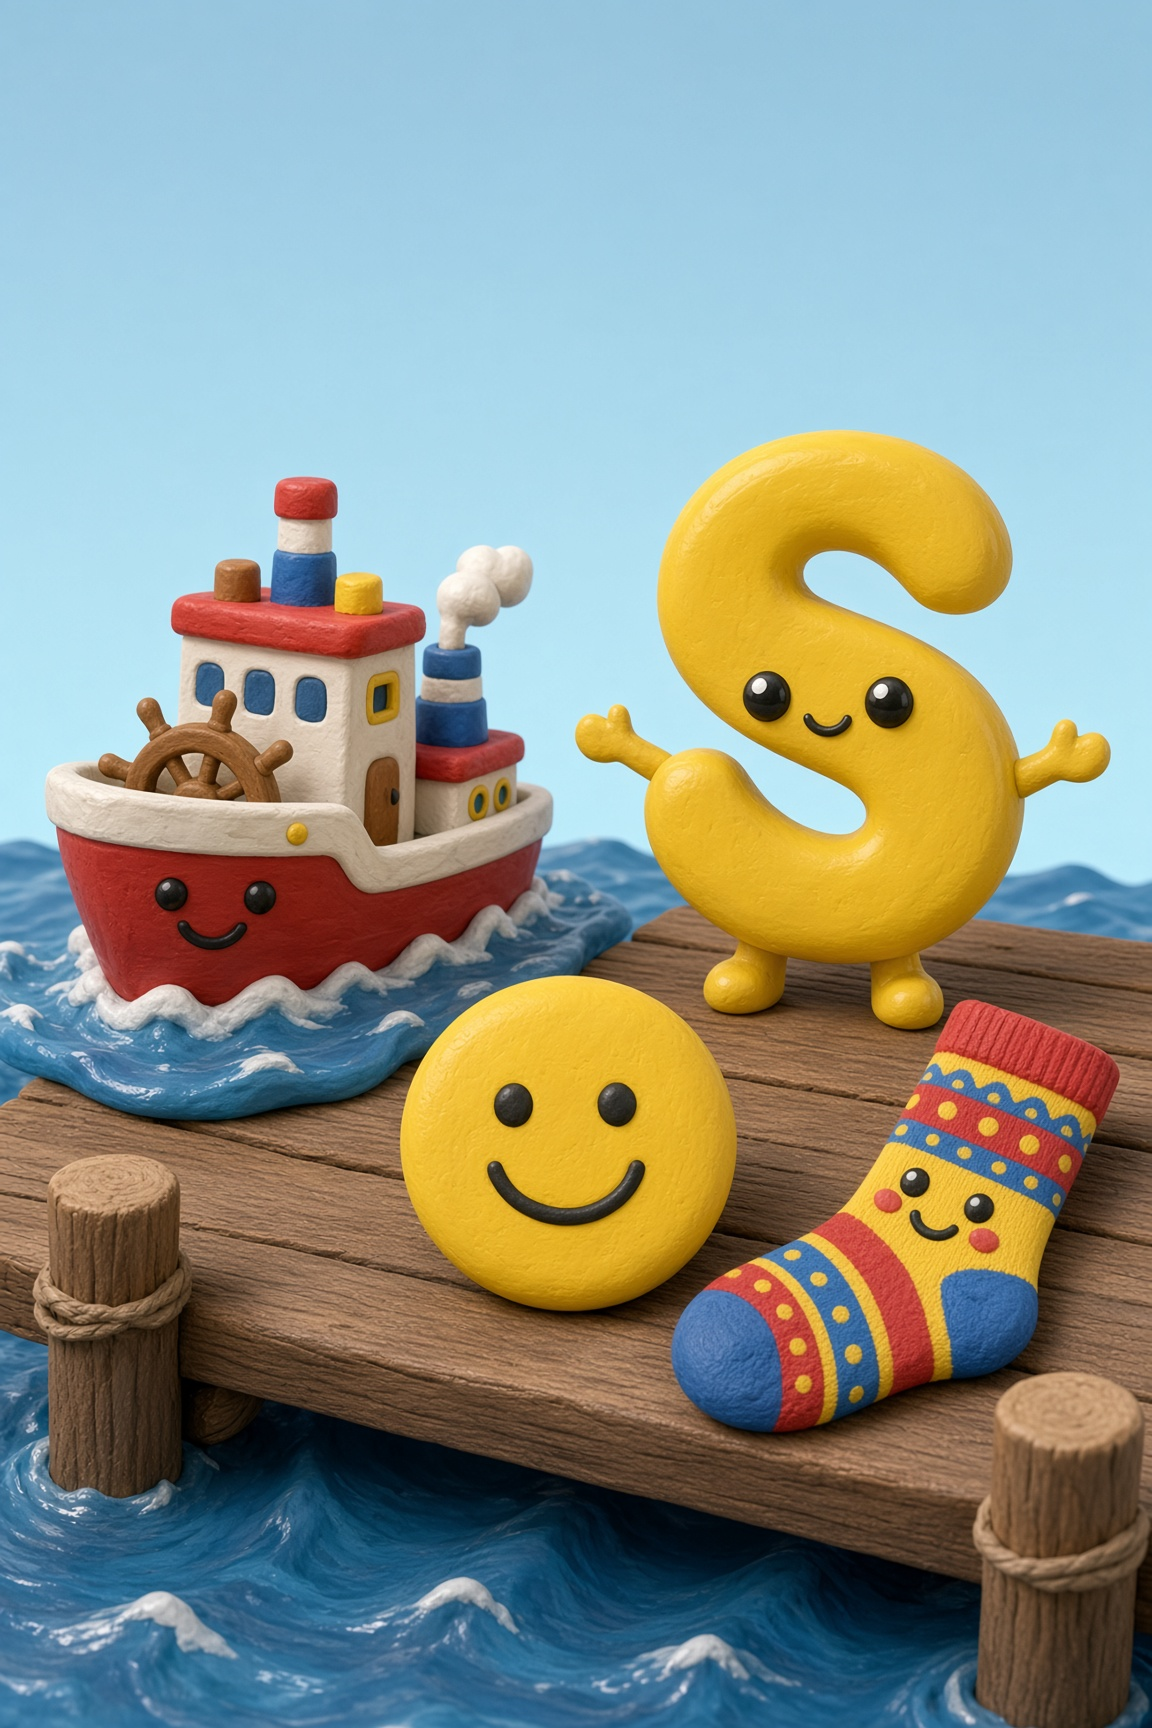
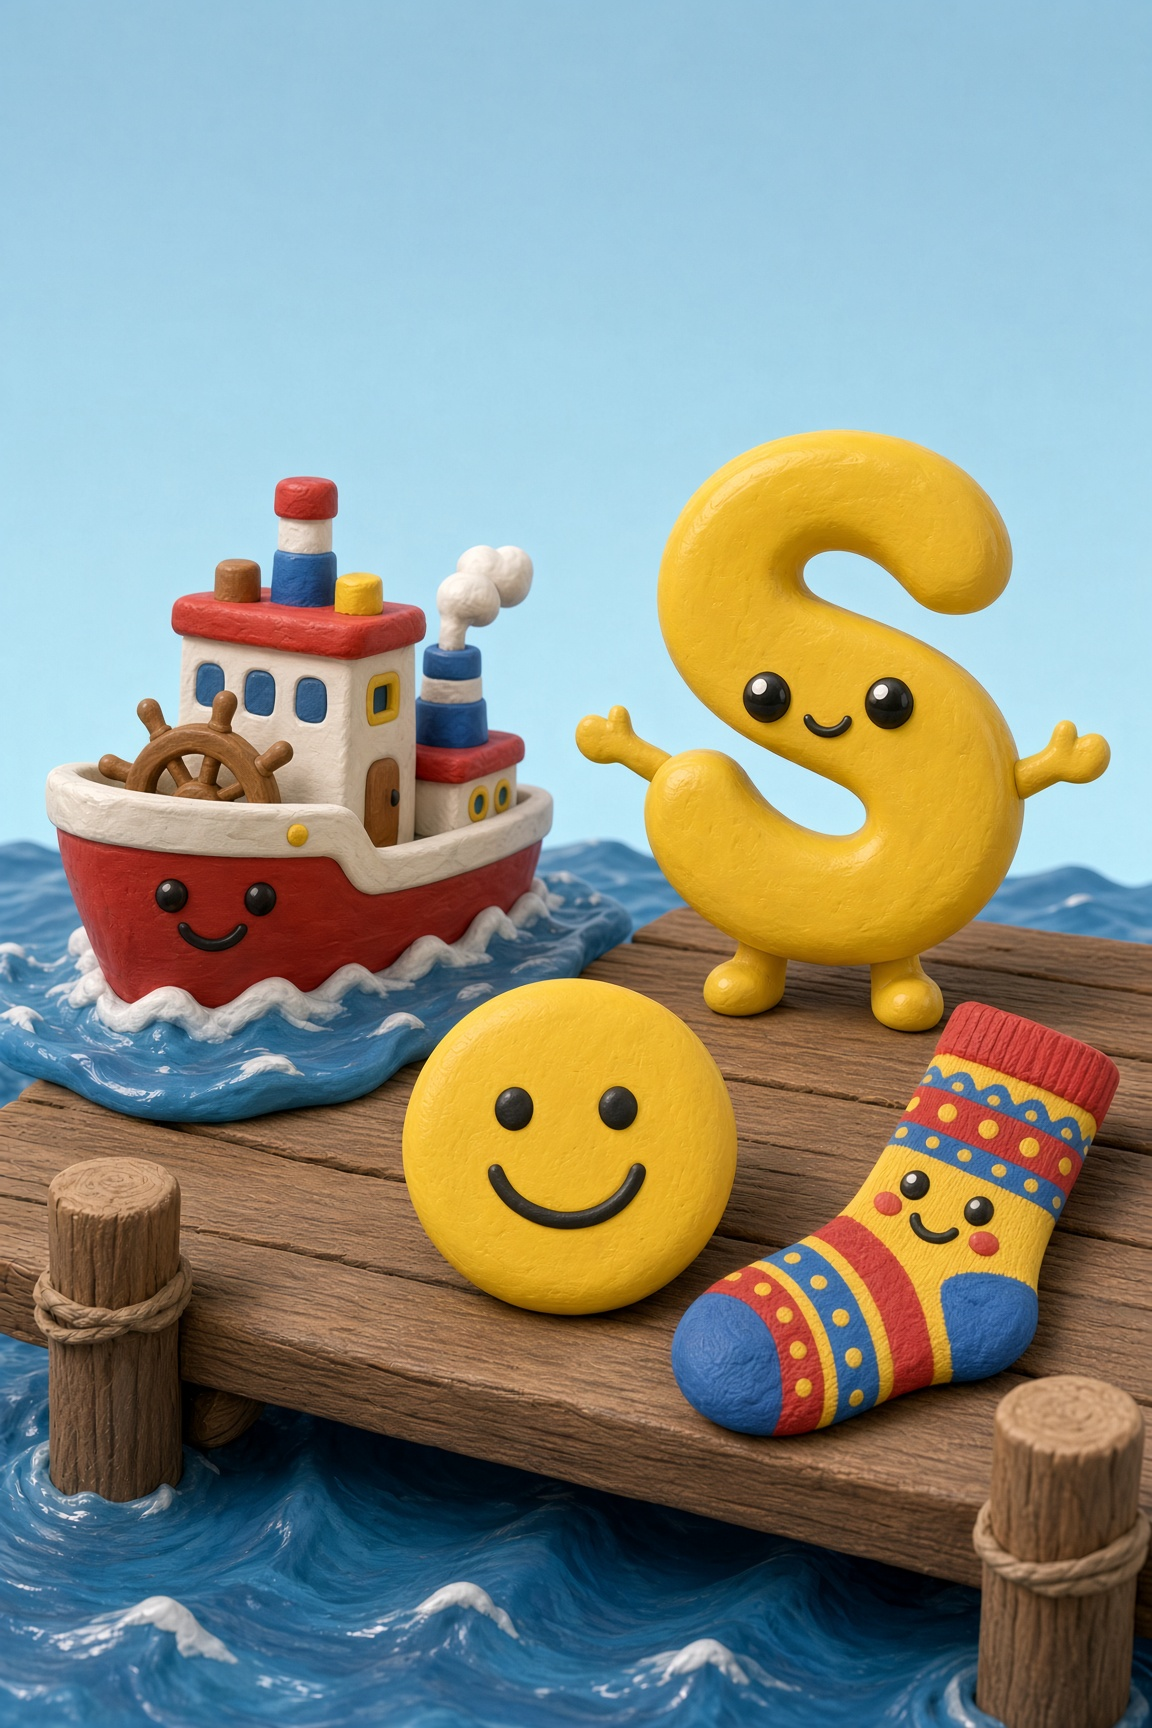
v0.356: punch FAIL stills — V violin face, little-s Smile on dock.

diff --git a/src/lib/version.ts b/src/lib/version.ts
@@ -12,7 +12,7 @@
  * Grok Publish: still remind at v0.070, v0.080… so the public link can match.
  */
 
-export const APP_VERSION = "0.355";
+export const APP_VERSION = "0.356";
 export const APP_VERSION_LABEL = `v${APP_VERSION}`;
 export const APP_SLUG = "abc-adventure";
 export const APP_DISPLAY_NAME = "ABC Adventure";

diff --git a/docs/START-HERE.md b/docs/START-HERE.md
@@ -173,13 +173,13 @@ Plan: `docs/oz-friends-stills.md`.
 | Verdict | Cases |
 |---|---|
 | **PASS / PASS soft** | o, o-little (soft), p, p-little (soft), **q**, q-little (soft), r, r-little (soft), **s**, t, t-little, **u** (home-tile lock), **u-little**, **v-little**, w, w-little (soft), x (soft), x-little (soft), **y**, **y-little**, z (soft), **z-little** |
-| **FAIL** (rebuild queued) | **v-play** (blank Violin); **s-little** (Sun≠Smile) |
+| **FAIL** (rebuild queued) | **v-play** / **s-little** — remade again v0.356 (violin face punched; Smile on dock, no sun). Re-QA. |
 
 Quality + creativity > rigid adherence (**all projects**, v0.347): if a rule hurts the product, flag QAsupervisor — do not blind-enforce. Not limited to King/people softs. Standing ban (v0.345): no ring of kids / classroom audience on Friends stills, and no cookie-eater bleed into Friends. King/Queen/Question may be a stylized person / crown figure when natural and readable; do not force toy-only. Random kid stand-ins, dual-letter mess, blank talkers, wrong trio, and eat-poster humans as Friends cast still FAIL.
 
 ### Rebuild inventory **QUEUED** (not shoot-now)
-- **v-play-1 still** — mouthed toy Violin (blank-talker FAIL) + Volcano + Van; no human
-- **s-little-play-1 still** — Ship / **Smile** / Sock (no Sun); flag Meet-little-s debt when remaking
+- **v-play-1 still** — remade v0.356: poster-lock violin face (unmissable). Re-QA.
+- **s-little-play-1 still** — remade v0.356: Smile on dock (no sun/rays). Re-QA.
 - **E film cast remake later** — letter E missing end; Earth missing mid; keep still; clean letter intro mouths
 - **Film HOLDs (unchanged):** little-c (loudness + attribution); Big D / little-d attribution; B films still FAIL
 - Remakes postponed unless Ash goes.
@@ -187,6 +187,8 @@ Quality + creativity > rigid adherence (**all projects**, v0.347): if a rule hur
 
 ### Meet-asset debt · queued
 Little Meets that are Big-shaped (product bug — Friends cannot lock a lying Meet glyph): **p, s, v, w, x, z** (and review). See [`docs/meet-asset-debt.md`](meet-asset-debt.md). Queued Meet remakes — not shoot-now.
+
+**v0.356** Remade FAIL stills: Big V violin face punched from `v-violin.webp`; little s Smile on dock from `s-smile.webp` (no sun). Re-QA. No I2V.
 
 **v0.355** H–N Friends films complete (little m, N, n). O–Z PASS still remaining (skip V + little s).
 

diff --git a/SESSION.md b/SESSION.md
@@ -1,6 +1,15 @@
 # Session compact — ABC Adventure
 
-**Version:** v0.355
+**Version:** v0.356
+
+## v0.356 — FAIL still remakes
+
+- `v-play-1` violin face punched from `public/posters/v-violin.webp`
+- `s-little-play-1` Smile on dock from `public/posters/s-smile.webp` (no sun)
+- Re-QA. No I2V.
+
+## v0.355 — builder (Ash start)
+
 
 ## v0.351 — builder (Ash start)
 

diff --git a/PROJECT.md b/PROJECT.md
@@ -115,7 +115,7 @@ npm run build:apk      # only when asked
 
 ## Versioning & downloads
 
-- **Current version:** `0.355` (`v0.355`) — stored in `VERSION` and `src/lib/version.ts` (keep in sync).
+- **Current version:** `0.356` (`v0.356`) — stored in `VERSION` and `src/lib/version.ts` (keep in sync).
 
 ## GitHub + Grok Publish cadence
 
